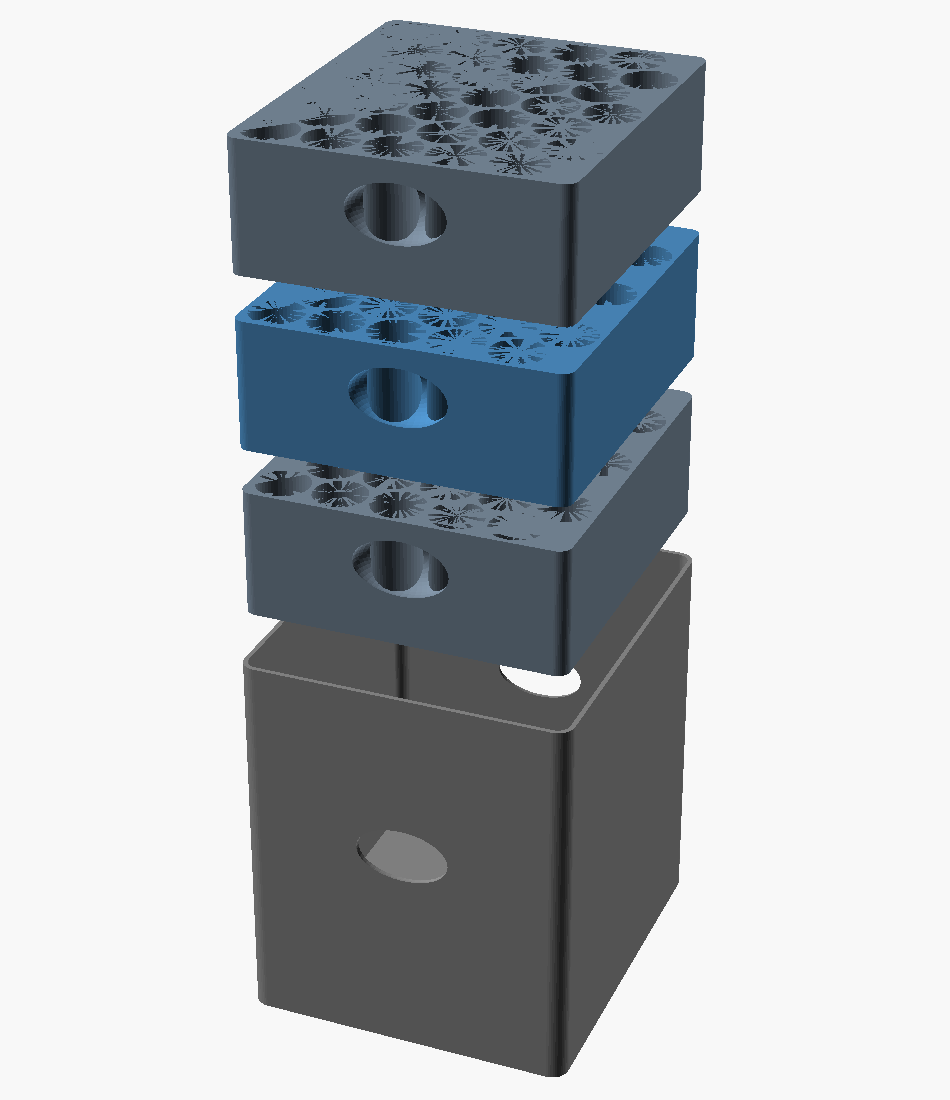
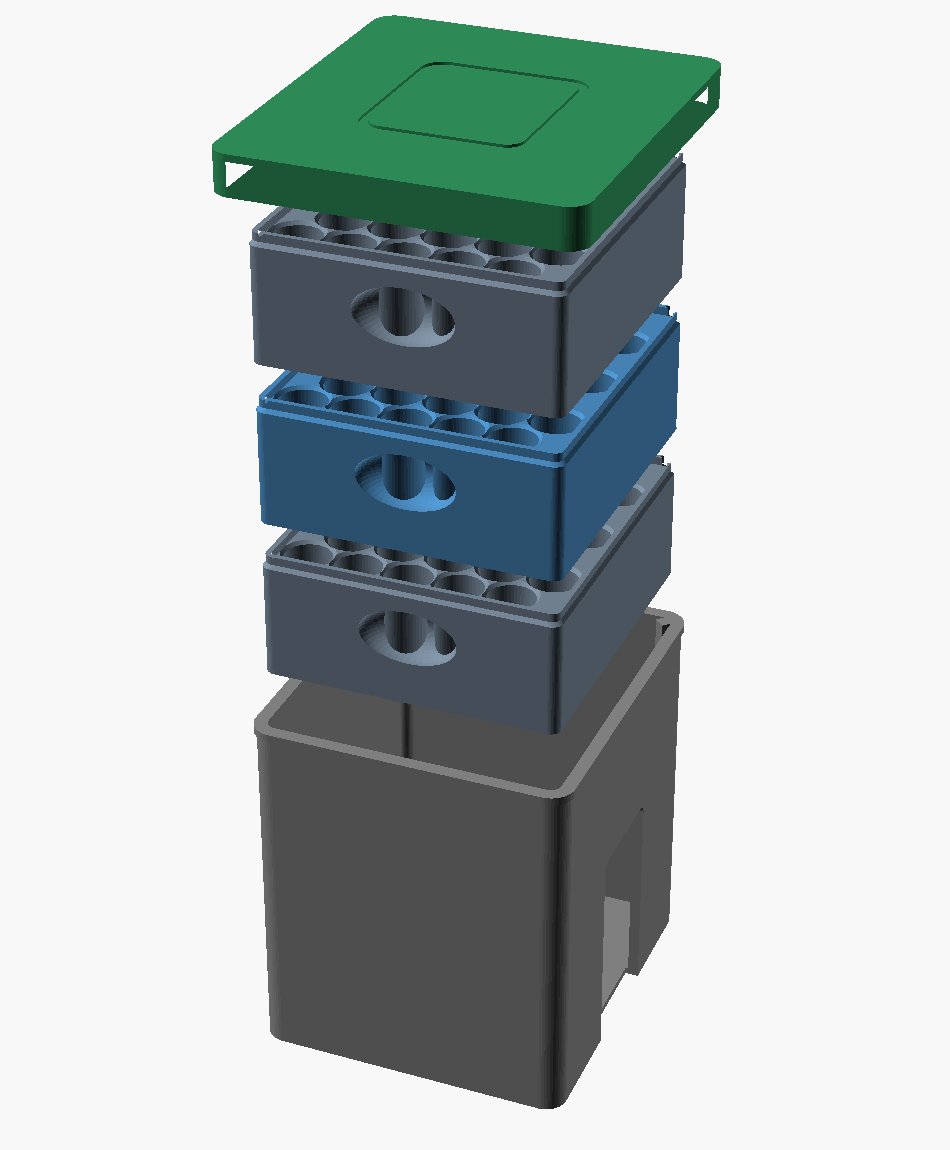
Tray system v2: snap lid, stacking grooves, bottom-layer removal, +15 improvements
- vial height clearance (3mm), tongue/groove tray interlock
- snap-fit lid (friction skirt + catch lip)
- sleeve push-hole + side windows for bottom-layer removal
- pocket lead-in chamfer + relief/push hole, corner key (functional rib)
- checks.py: 16 dimensional checks all pass; all parts render manifold
- assembled 118x131x136mm near-cube

Changed region(s): [[0.2137, 0.0, 0.7632, 0.9891], [0.3663, 0.7418, 0.4884, 0.8036]]

diff --git a/trays/checks.py b/trays/checks.py
@@ -1,0 +1,56 @@
+#!/usr/bin/env python3
+"""Dimensional self-checks for the v2 tray system. Mirrors vial_trays.scad params
+and verifies every fit/clearance closes. Pure geometry — no render needed."""
+import math, sys
+
+# mirror params
+vial_d, vial_h = 16.51, 37.74
+cols, rows = 5, 7
+bore_clear, wall_btw, rim_w, floor_t, v_clear = 0.6, 1.5, 4.0, 2.5, 3.0
+slide_clr = 0.5
+pocket_chamfer, relief_d = 1.2, 6.0
+reg_h, tongue_t, reg_clr = 3.0, 2.0, 0.4
+key_sz, lead_ch = 5.0, 1.5
+base_t, push_hole_d, win_w = 2.5, 30, 34
+skirt_h, catch_step = 12, 1.0
+
+bore_d = vial_d + bore_clear
+pitch  = bore_d + wall_btw
+rowp   = pitch*math.sqrt(3)/2
+xext = (cols-1)*pitch + pitch/2
+yext = (rows-1)*rowp
+tray_W = xext + bore_d + 2*rim_w
+tray_D = yext + bore_d + 2*rim_w
+tray_h = floor_t + vial_h + v_clear
+sleeve_in_w = tray_W + 2*slide_clr
+sleeve_W = sleeve_in_w + 2*rim_w
+sleeve_D = (yext+bore_d+2*rim_w) + 2*slide_clr + 2*rim_w
+sleeve_h = base_t + 3*tray_h + reg_h + 1
+
+C=[]
+def ck(n,ok,d): C.append((n,ok,d))
+
+ck("capacity >= 100", cols*rows*3>=100, f"{cols}x{rows}x3 = {cols*rows*3} pockets")
+ck("[#1] vial height clearance", v_clear>=2.5, f"{v_clear} mm gap above vial top")
+ck("    vial fits pocket depth", (tray_h-floor_t)>=vial_h, f"pocket {tray_h-floor_t:.1f} >= vial {vial_h}")
+ck("[#2] tongue/groove engage", reg_h>=2.5, f"engagement {reg_h} mm")
+ck("    groove deeper than tongue", reg_h+0.4>reg_h, "groove +0.4 mm")
+ck("    groove wider than tongue", reg_clr>0, f"clearance {reg_clr} mm/side")
+ck("[#3] lid snap engages", catch_step>=0.8 and skirt_h>3, f"catch {catch_step} mm, skirt {skirt_h} mm")
+ck("[#4] push-hole usable", 25<=push_hole_d<sleeve_in_w, f"Ø{push_hole_d} in base (cavity {sleeve_in_w:.0f})")
+ck("[#5] side window usable", win_w>=25, f"window {win_w} mm wide")
+ck("[#6] pocket lead-in chamfer", pocket_chamfer>=0.8, f"{pocket_chamfer} mm")
+ck("[#7] relief/push hole valid", 5<=relief_d<bore_d-2, f"Ø{relief_d} < bore {bore_d:.1f}")
+ck("[#8] corner key present", key_sz>=3, f"key {key_sz} mm (notch clears with +0.8)")
+ck("[#9] lead-in chamfer", lead_ch>=1.0, f"{lead_ch} mm edge chamfer")
+ck("[#12] tray-in-sleeve slide", 0.3<=slide_clr<=0.7, f"{slide_clr} mm/side")
+ck("    walls printable", wall_btw>=1.2 and rim_w>=1.2, f"btw {wall_btw}, rim {rim_w} mm")
+asp = max(sleeve_W,sleeve_D,sleeve_h)/min(sleeve_W,sleeve_D,sleeve_h)
+ck("near-cube aspect < 1.35", asp<1.35, f"{sleeve_W:.0f} x {sleeve_D:.0f} x {sleeve_h:.0f} mm, aspect {asp:.2f}")
+
+print("="*58); print("TRAY SYSTEM v2 — DIMENSIONAL CHECKS"); print("="*58)
+for n,ok,d in C: print(f"[{'PASS' if ok else 'FAIL'}] {n}\n        {d}")
+allok=all(o for _,o,_ in C)
+print("-"*58); print(f"RESULT: {'PASS' if allok else 'FAIL'}")
+print(f"assembled envelope ~ {sleeve_W:.0f} x {sleeve_D:.0f} x {sleeve_h:.0f} mm")
+sys.exit(0 if allok else 1)

diff --git a/trays/README.md b/trays/README.md
@@ -1,29 +1,39 @@
-# 100× 3 mL Vials — Individual-Holder Stacking Trays
+# 100× 3 mL Vials — Individual-Holder Stacking Trays (v2)
 
-Redesign of the [near-cube container](../README.md) under one new rule: **every vial gets its own individual pocket** — no vials stacked on top of each other inside a shared tube.
+Each vial in its **own pocket on its own floor**. Three identical 5×7 hex trays (35 pockets each, 105 total) stack inside a sleeve with a **snap lid** → near-cube.
 
-![exploded](exploded.png)
-
-## Design
-
-- **3 identical trays**, each a 5 × 7 hex grid of **35 individual blind pockets** (105 total, 100 vials + 5 spare).
-- Every vial sits in its **own pocket on its own floor** — never bearing another vial.
-- Trays drop into a thin **sleeve** that registers them laterally and forms the outer near-cube; optional **lid** keeps freezer frost out.
-- **Finger scallops** on the long sides to lift trays (and pinch vials) out.
+![cutaway](cutaway.png)
 
 | | |
 |---|---|
 | **Vial** | Ø16.51 × 37.74 mm (standard 3 mL serum vial) |
-| **Assembled envelope** | **107 × 120 × 126 mm** (near-cube, aspect 1.18) |
-| **Parts to print** | `tray.stl` ×3, `sleeve.stl` ×1, `lid.stl` ×1 (optional) |
-| **Walls** | 1.5 mm |
+| **Assembled envelope** | **118 × 131 × 136 mm** (near-cube, aspect 1.15) |
+| **Print** | `tray.stl` ×3, `sleeve.stl` ×1, `lid.stl` ×1 |
+| **Verified** | `checks.py` (16 dimensional checks) + all parts render manifold |
+
+## v2 — 15 improvements over v1
+
+1. **Vial height clearance** — explicit 3 mm gap above every vial; stacked trays never crush them
+2. **Stacking grooves** — tongue on top rim / groove on bottom rim interlock trays (anti-shift)
+3. **Snap lid** — friction skirt + catch lip that clicks under the sleeve's top bead
+4. **Bottom-layer removal** — Ø30 mm push-hole in the sleeve base shoves the stack up
+5. **Side windows** — short-end openings so any tray (incl. the bottom) is grabbable
+6. **Pocket lead-in chamfer** — vials self-center on insertion
+7. **Relief/push hole** — Ø6 mm at each pocket bottom: poke a vial out, frost drains
+8. **Corner key** — rib in sleeve / notch in tray; trays only seat one orientation
+9. **Lead-in chamfer** on the tray bottom edge — drops into the sleeve cleanly
+10. **Finger scallops** on tray long sides
+11. **Lid grip recess** on top
+12. **Tuned clearances** — tongue/groove 0.4 mm, tray-in-sleeve 0.5 mm, lid friction 0.3 mm
+13. **Top-edge chamfers** for handling + printability
+14. **Dimensional self-check** (`checks.py`) — verifies all 16 fits close
+15. **Re-verified** all parts render manifold; corner-key fixed from cosmetic to functional rib
 
 ## Print
 
-- **Trays & lid:** flat on the plate, pockets up → no supports.
-- **Sleeve:** open-end up → no supports.
-- PETG (freezer-friendly) or PLA, 0.4 mm nozzle, 3 perimeters.
-- Print **one tray first** as a fit-test with your real vials, then run the other two.
+- **Trays & lid:** flat, pockets/skirt up → no supports. **Sleeve:** open-end up.
+- PETG (freezer-friendly), 0.4 mm nozzle, 3 perimeters.
+- Print **one tray first** to fit-test with your real vials; tune `bore_clear` if needed.
 
 ## Files
 
@@ -31,22 +41,22 @@ Redesign of the [near-cube container](../README.md) under one new rule: **every 
 |---|---|
 | `vial_trays.scad` | Parametric source (tray / sleeve / lid / assembly) |
 | `tray.stl` / `sleeve.stl` / `lid.stl` | Print files |
-| `*_part.scad` | Wrappers that select which part to render |
-| `assembly.png` / `tray.png` / `exploded.png` | Renders |
+| `checks.py` | Dimensional verification |
+| `*_part.scad` | Render wrappers |
+| `cutaway.png` / `exploded.png` / `tray.png` | Renders |
 
 ## Tuning
 
-Edit the top of `vial_trays.scad`, then per part:
-
 ```bash
+python3 checks.py                                    # verify dims
 openscad -o tray.stl --export-format=binstl tray_part.scad
 ```
 
-- `bore_clear` — vial fit; `cols`/`rows` — grid; `clr` — tray-in-sleeve slide fit.
+Key params at the top of `vial_trays.scad`: `bore_clear`, `v_clear`, `reg_h`/`tongue_t`/`reg_clr` (grooves), `catch_step` (snap), `slide_clr`, `push_hole_d`.
 
-> Note: render each part via its `*_part.scad` wrapper. The dispatcher uses a read-only
-> `part_sel` selector — do **not** re-assign `PART` inside the file, or OpenSCAD's
-> last-assignment hoisting silently renders the default part for every wrapper.
+> Render each part via its `*_part.scad` wrapper. The dispatcher uses a read-only
+> `part_sel` selector — never re-assign `PART`, or OpenSCAD's last-assignment hoisting
+> silently renders the default part for every wrapper.
 
-> ⚠️ Verified in software (all parts render clean & manifold). Measure your vials and
-> print one tray before committing.
+> ⚠️ Verified in software only. Print one tray + the lid-to-sleeve snap as a fit-test
+> before committing to all three trays.